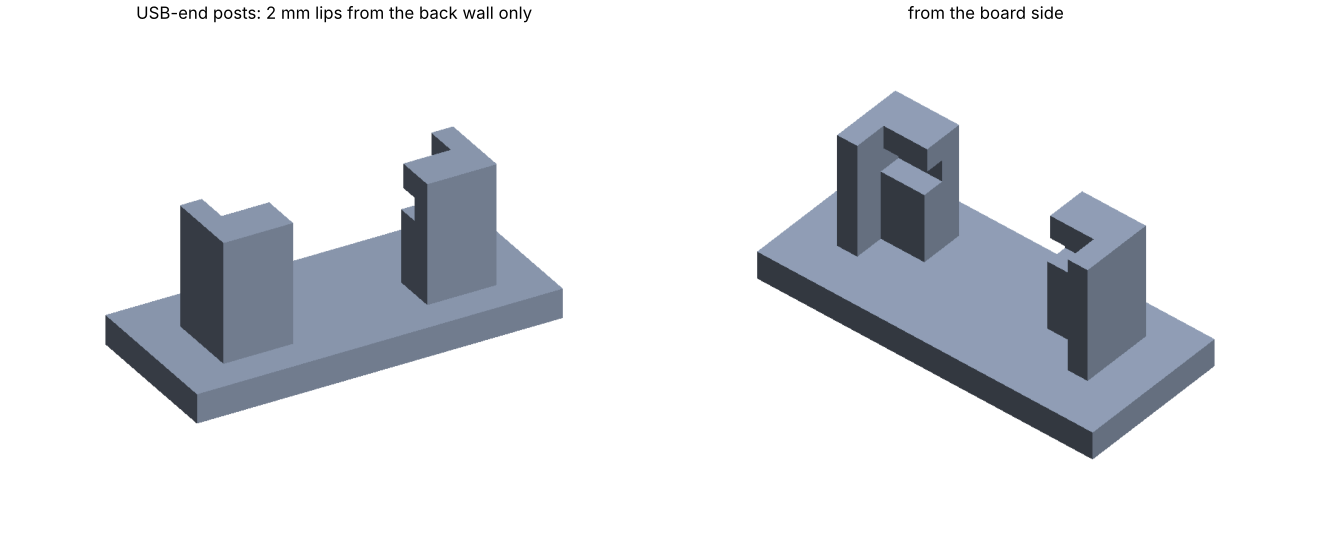
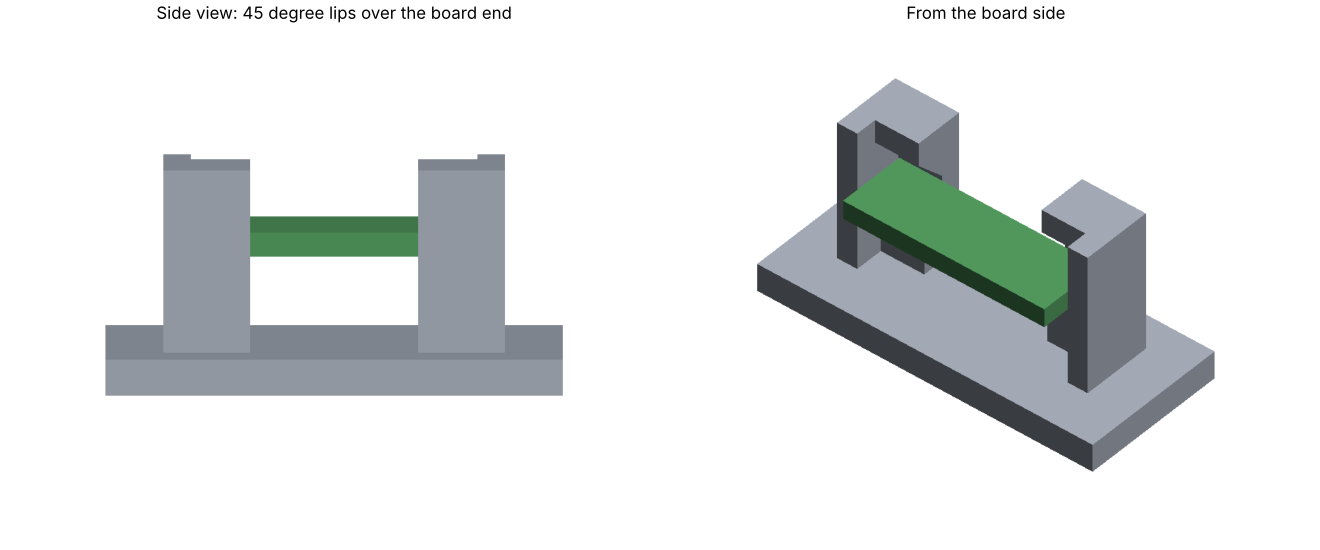
SuperMini lips: 45-degree wedges, taller posts
Each lip leaves the back wall at board-top height and slopes out and up at 45 degrees
(2.5 mm out, 2 mm thick at the tip), so it prints without supports and catches the
board's end edge with 0.4 mm of play. Posts rise to 14.5 mm. Cut-through picture:
preview_esp_lip_section.png.

Claude-Session: https://claude.ai/code/session_01NvhcrT1TvtWTS87yL8V47c

diff --git a/case/pond_case.py b/case/pond_case.py
@@ -55,8 +55,8 @@ SUPERMINI = (43.0, 70.0, 18.0, 22.5, 6.0)        # ESP32-C3 SuperMini, 18 x 22.5
 # then a printed tab (esp_clamp.stl) screws down over its other end with one M2.5 x 6 into a post.
 # The board rests on its two short ends only, so wires soldered into the pin holes along its long edges are clear.
 SM_CLR, SM_HOOK_IN, SM_LIP_T, SM_REST = 0.4, 3.5, 2.0, 1.5
-SM_LIP_OVER = 1.2     # how far each lip reaches over the board's end; it only sticks out from the back wall, so it
-                      # prints without supports (no part reaches out sideways past an upright)
+SM_LIP_OUT = 2.5      # each lip leaves the back wall at board-top height and slopes out and UP at 45 degrees, so
+                      # it prints without supports; it catches the board's end edge (0.4 mm play). 2 mm thick at its tip.
 SM_POST_R, SM_PILOT_D, SM_TAB_T, SM_TAB_W, SM_TAB_OVER = 3.4, 2.2, 2.0, 12.0, 1.8
 CRADLE_WALL, CRADLE_LEDGE, CRADLE_CLR, CRADLE_LIP = 1.8, 1.6, 0.4, 2.0
 
@@ -169,7 +169,8 @@ def supermini_mount():
     bx0, bx1, by0, by1 = X(x), X(x + w), Y(y), Y(y + d)        # board outline
     zb, zt = FLOOR + lz, FLOOR + lz + 1.6                       # board underside / top
     adds, cuts = [], []
-    lip0, lip1 = zt + 0.3, zt + 0.3 + SM_LIP_T                  # the lip over the board's top, 0.3 mm play
+    lip0 = zt                                                   # lip starts at board-top height at the back wall
+    lip1 = lip0 + SM_LIP_OUT + SM_LIP_T                         # post top: the 45 degree slope + 2 mm over its tip
     for side in (0, 1):                                         # USB-end corner posts, either side of the socket
         if side == 0:
             ox0, ox1, ix0, ix1 = bx0 - c - wall, bx0 - c, bx0 - c, bx0 + SM_HOOK_IN
@@ -178,7 +179,10 @@ def supermini_mount():
         adds.append(cube(ox0, by1 - 4.0, FLOOR - 0.2, ox1, by1 + c + wall, lip1))          # side wall
         adds.append(cube(min(ox0, ix0), by1 + c, FLOOR - 0.2, max(ox1, ix1), by1 + c + wall, lip1))  # back wall
         adds.append(cube(ix0, by1 - SM_REST, FLOOR - 0.2, ix1, by1 + c + 0.01, zb))       # rest under the corner
-        adds.append(cube(ix0, by1 - SM_LIP_OVER, lip0, ix1, by1 + c + 0.01, lip1))        # lip, from the back wall
+        wall_y = by1 + c                                       # the back wall's face toward the board
+        root = cube(ix0, wall_y - 0.01, lip0, ix1, wall_y + 0.01, lip1)
+        tip = cube(ix0, wall_y - SM_LIP_OUT - 0.01, lip0 + SM_LIP_OUT, ix1, wall_y - SM_LIP_OUT, lip1)
+        adds.append(mf.Manifold.hull(root + tip))                                          # 45 degree lip
     # far end: a rest under the board's end + the screw post just beyond it
     cx = (bx0 + bx1) / 2
     py = by0 - c - SM_POST_R
